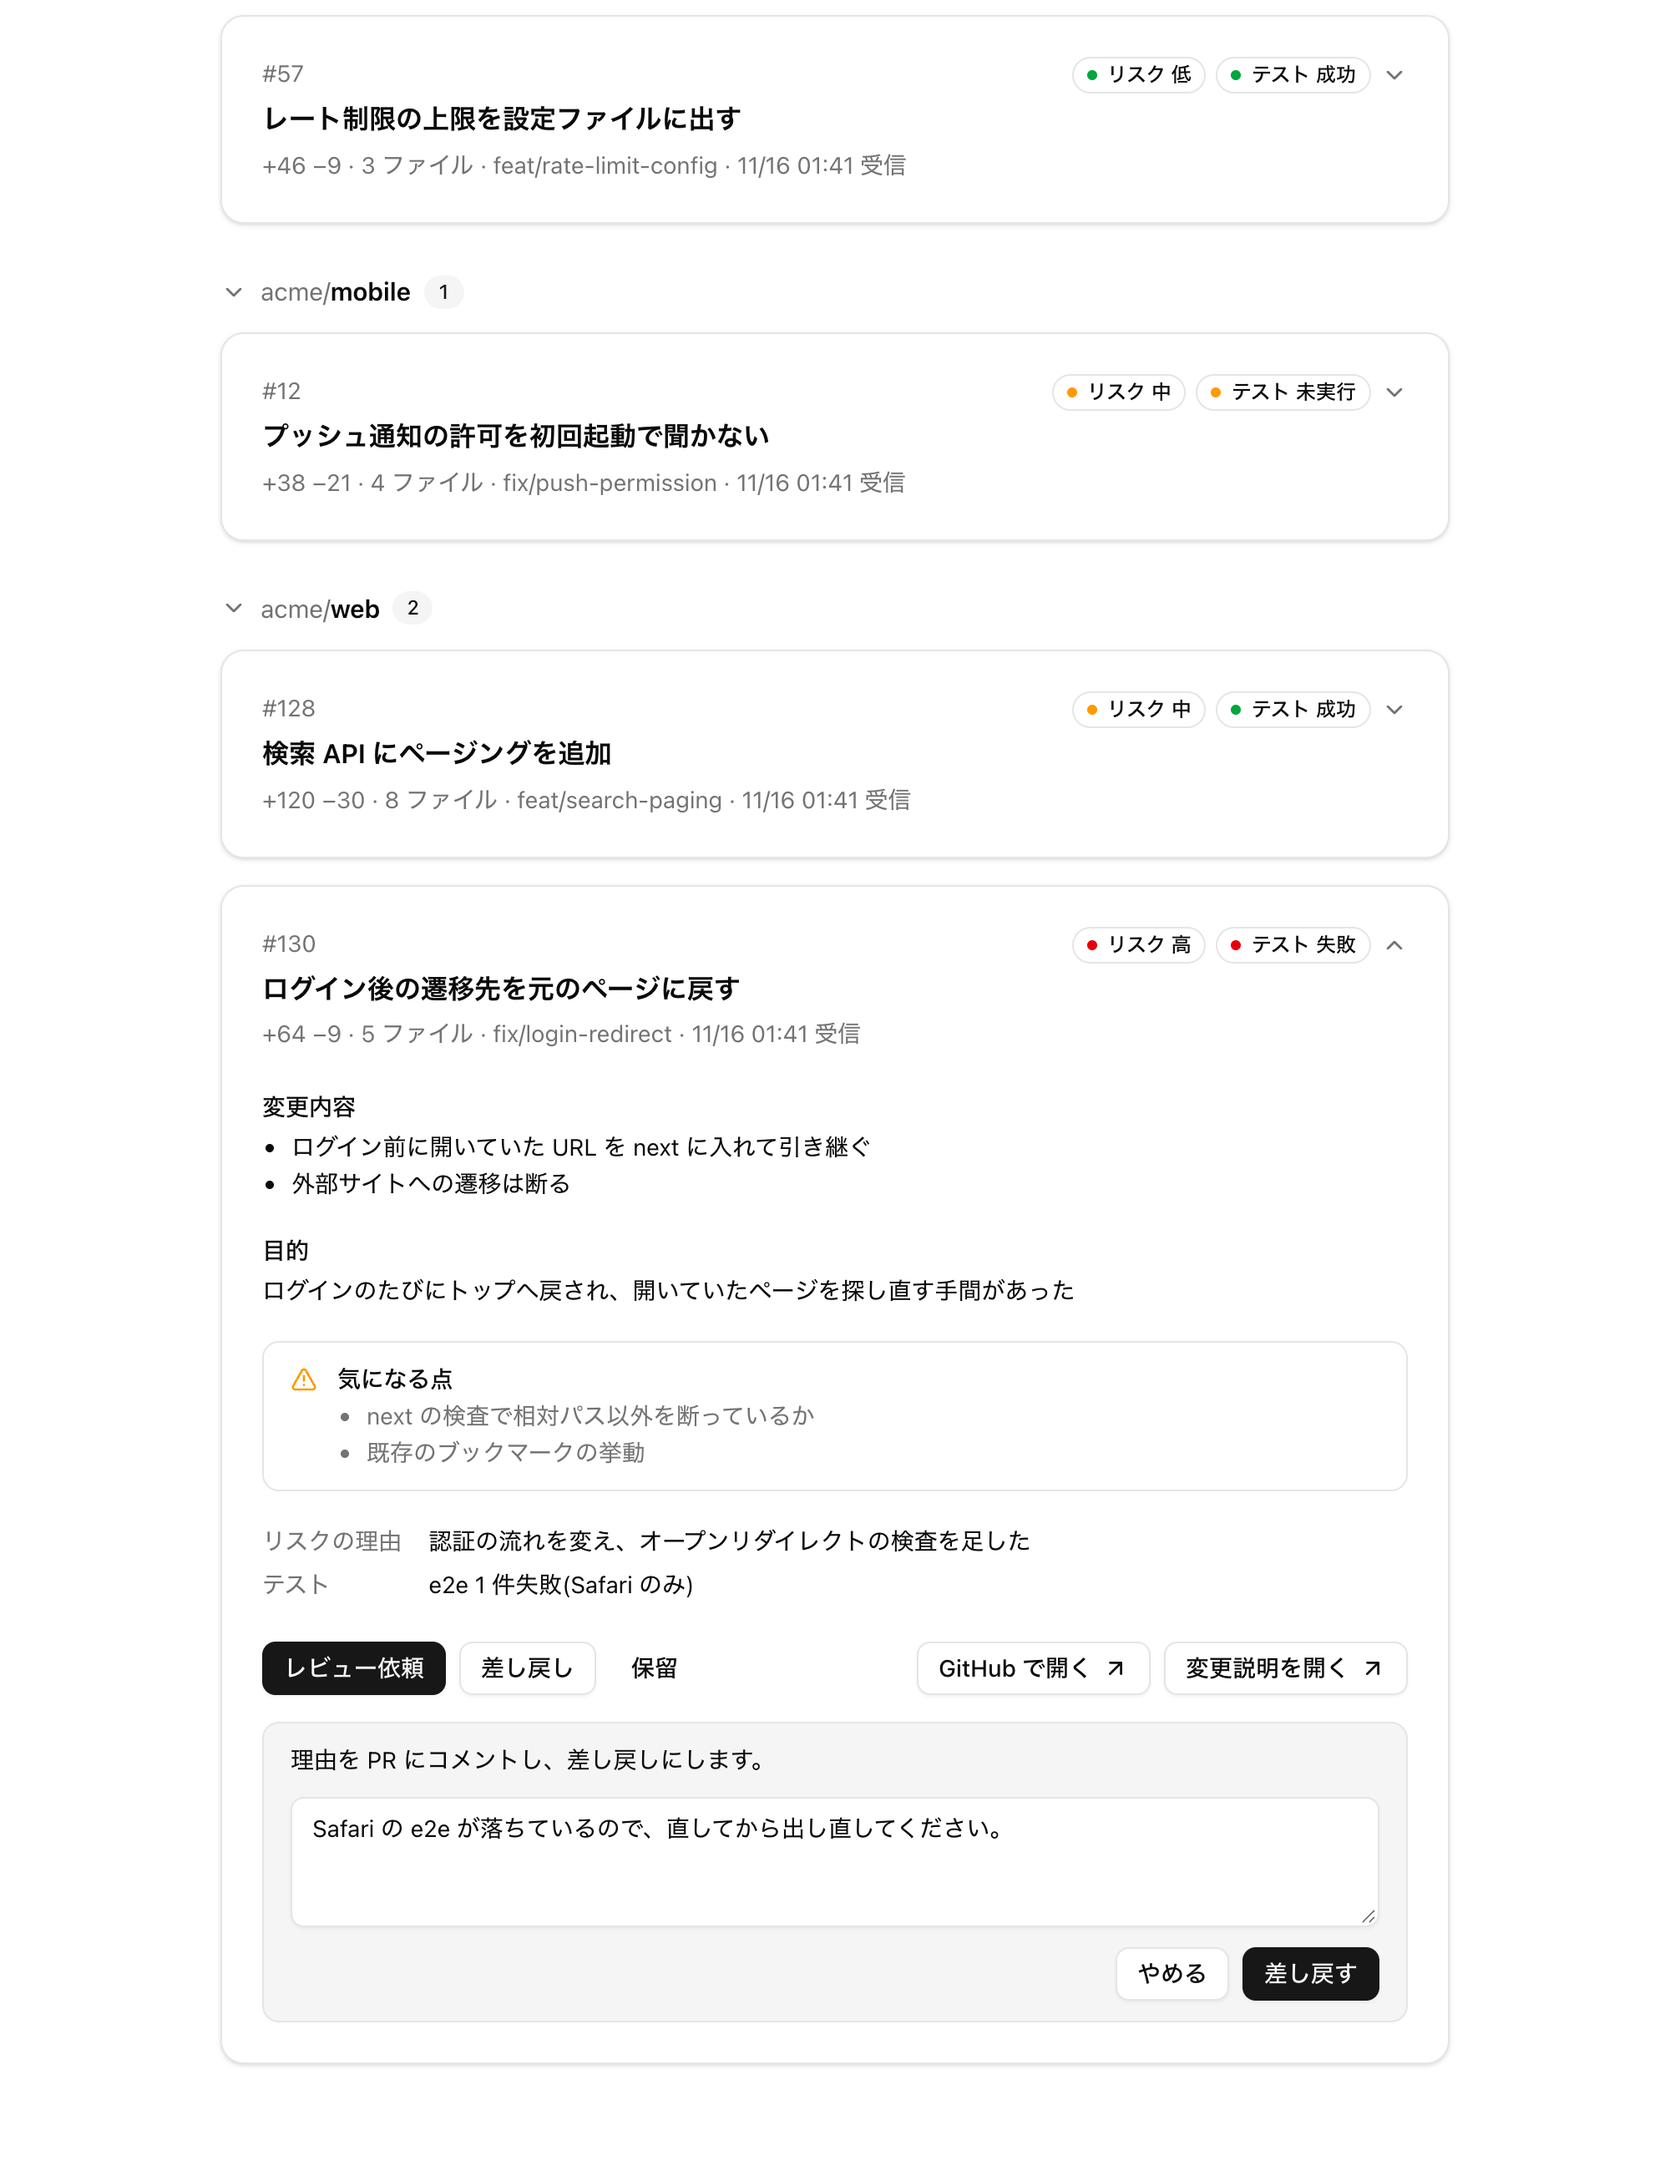
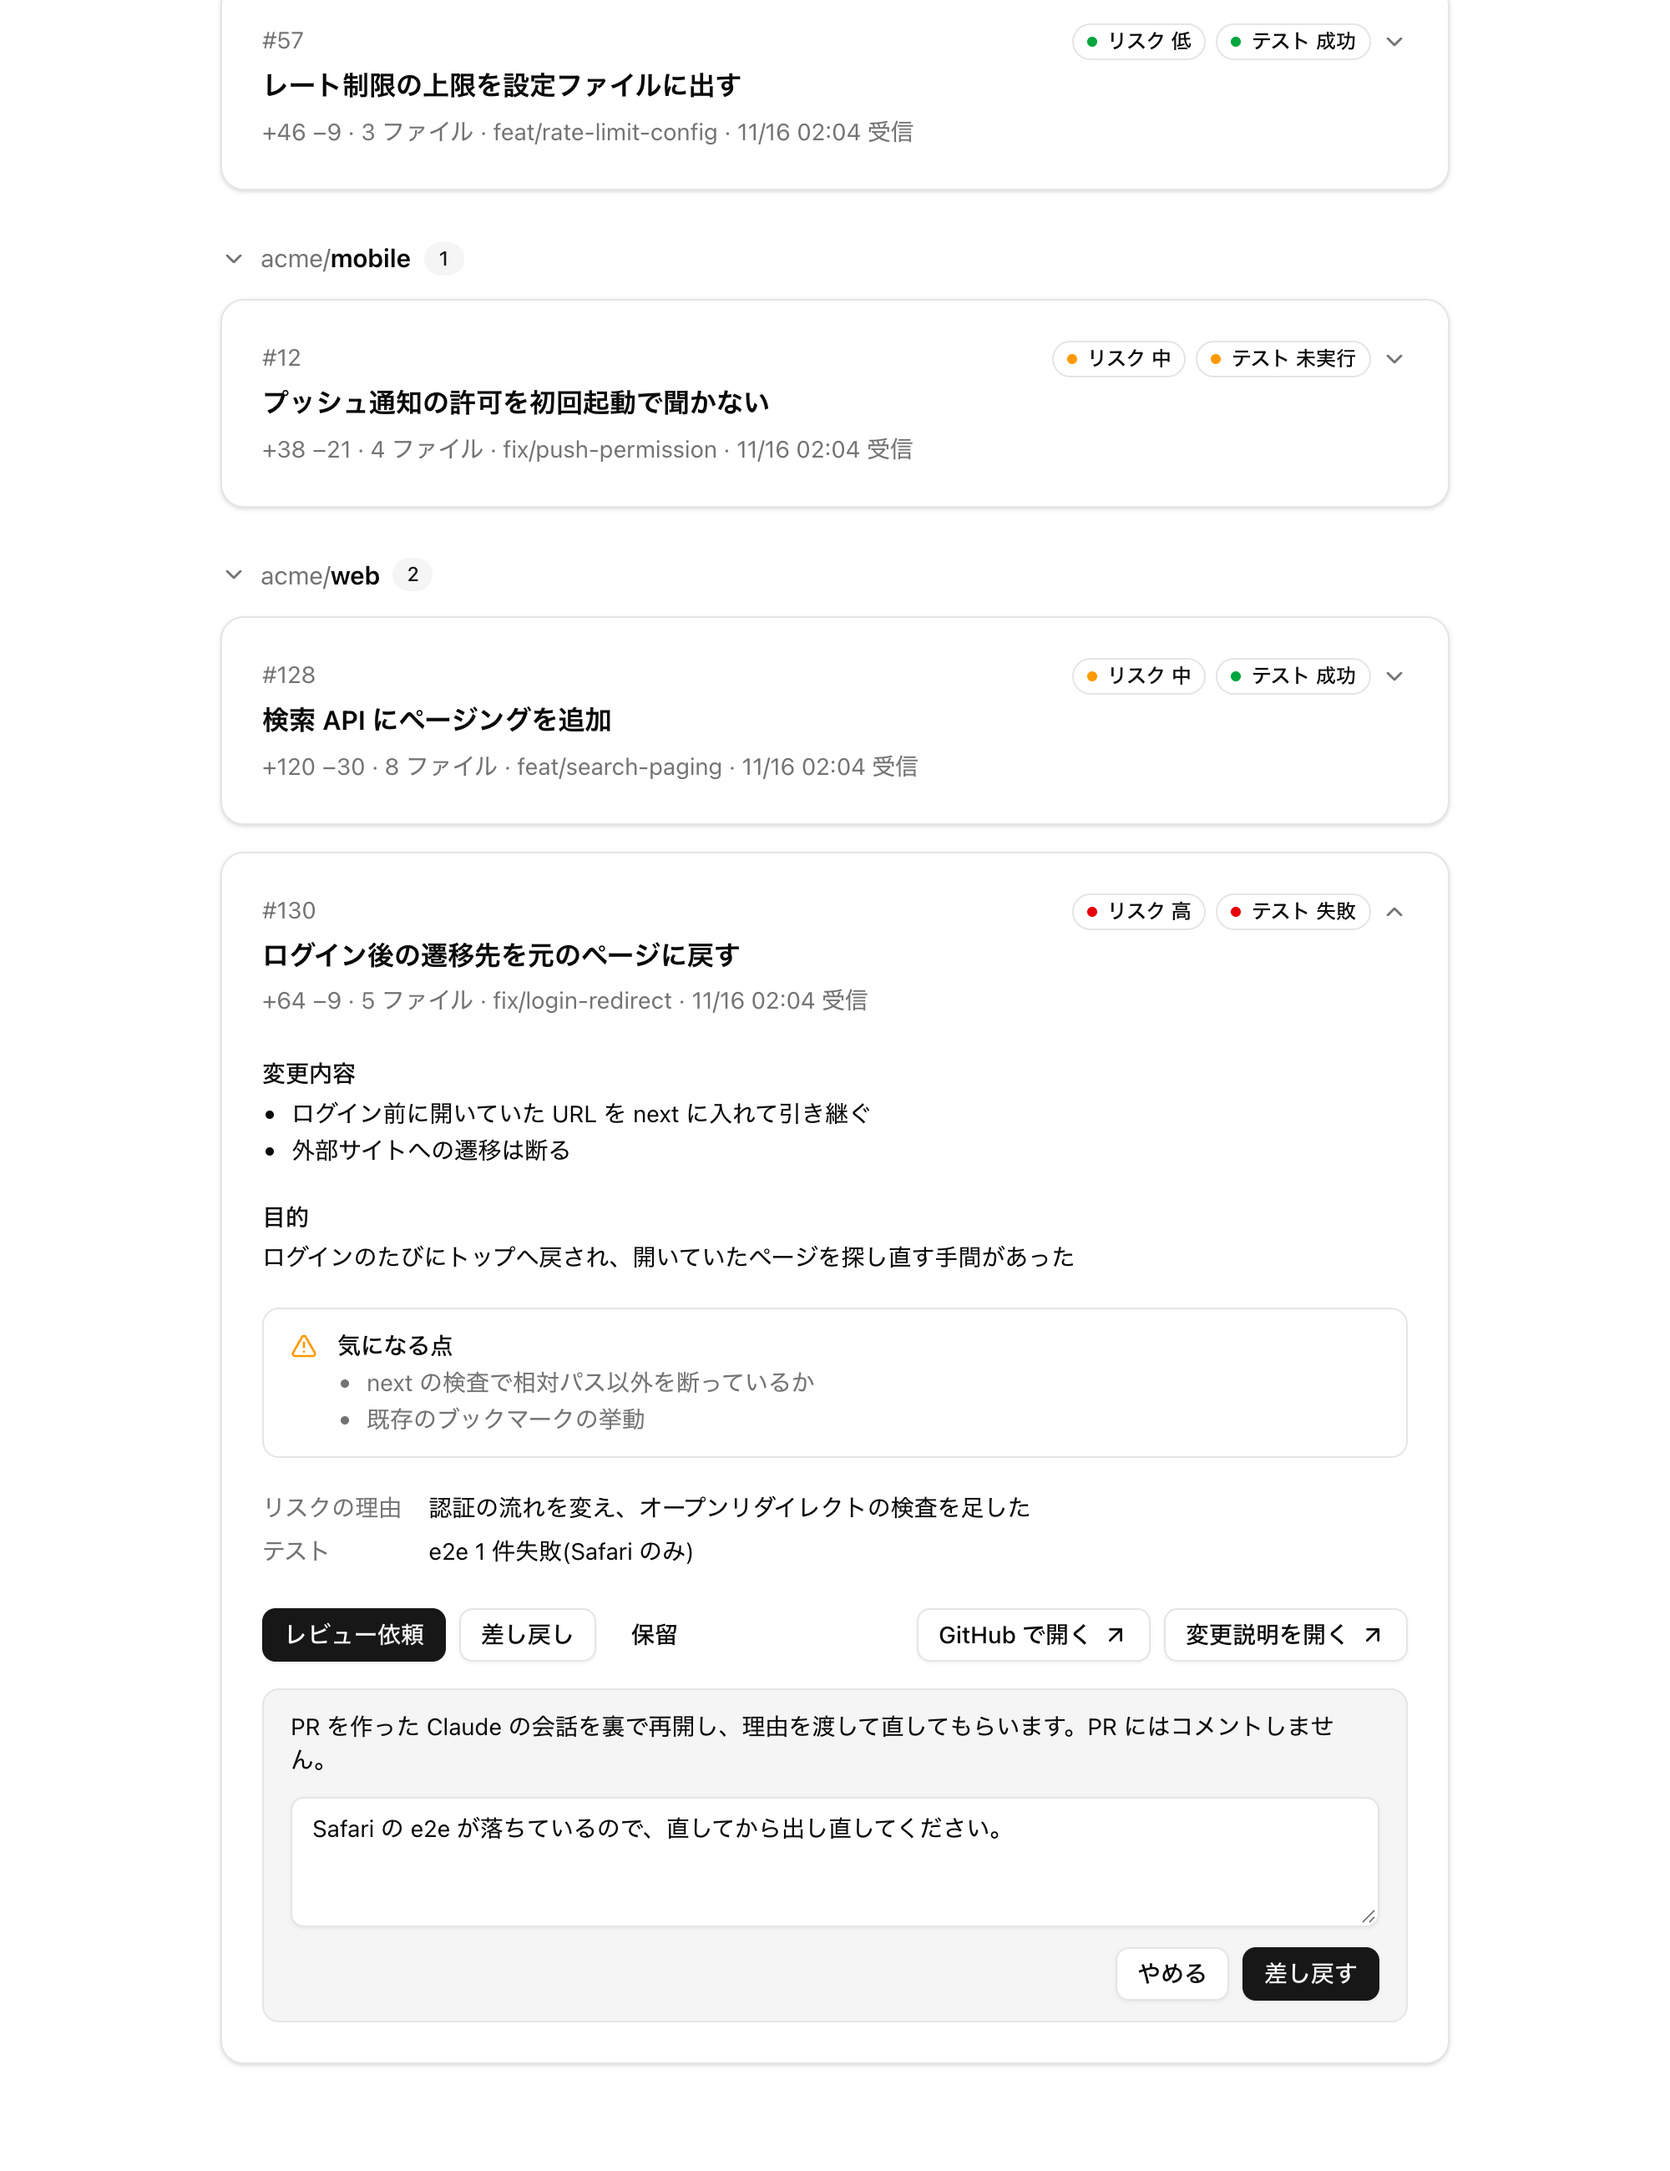
画面と README の差し戻しの説明を、Claude に返す形に合わせる
差し戻しの確かめる欄の文を「PR を作った Claude の会話を裏で再開し、
理由を渡して直してもらう。PR にはコメントしない」にし、README の
できること、しくみの図、ボタンの表、データの場所(returns/)、安全の
ために、を書き直した。PR のコメントとして公開される、という注意は
当てはまらなくなったので、裏で Claude が動くことの注意に替えた。
差し戻しのスクショも新しい文で撮り直した。

diff --git a/static/index.html b/static/index.html
@@ -458,7 +458,7 @@
     </div>
     <div class="decision" hidden>
       <p class="decision-text"></p>
-      <textarea class="reason" rows="3" aria-label="差し戻す理由" placeholder="直してほしいことを書く(PR にコメントします)"></textarea>
+      <textarea class="reason" rows="3" aria-label="差し戻す理由" placeholder="直してほしいことを書く(PR を作った Claude に渡します)"></textarea>
       <div class="decision-buttons">
         <button type="button" class="button" data-cancel>やめる</button>
         <button type="button" class="button primary" data-confirm></button>
@@ -488,7 +488,7 @@
     },
     return: {
       label: "差し戻す",
-      text: () => "理由を PR にコメントし、差し戻しにします。",
+      text: () => "PR を作った Claude の会話を裏で再開し、理由を渡して直してもらいます。PR にはコメントしません。",
     },
   };
   const receivedFormat = new Intl.DateTimeFormat("ja-JP", {
